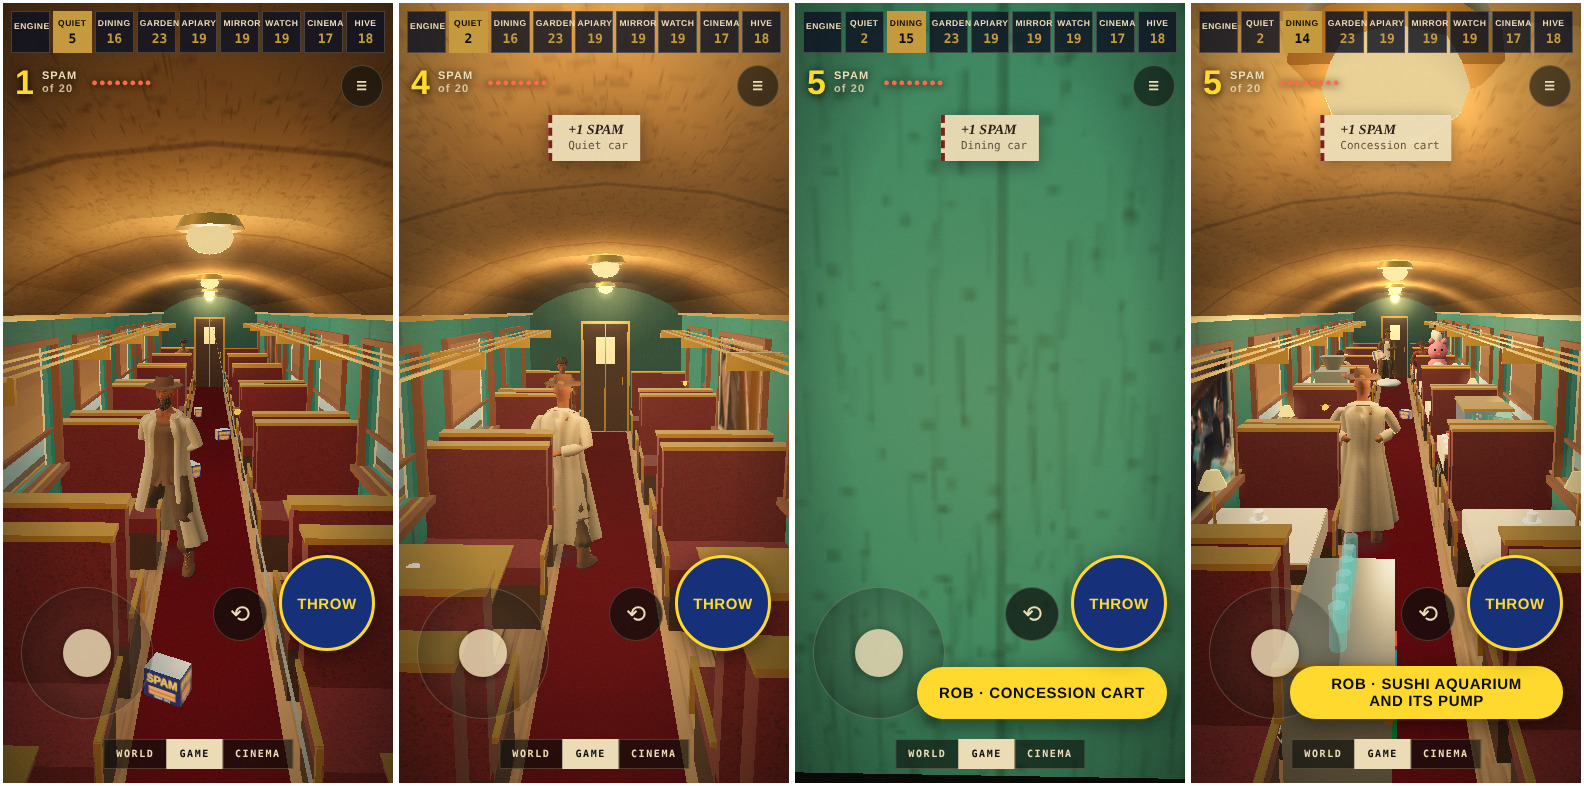
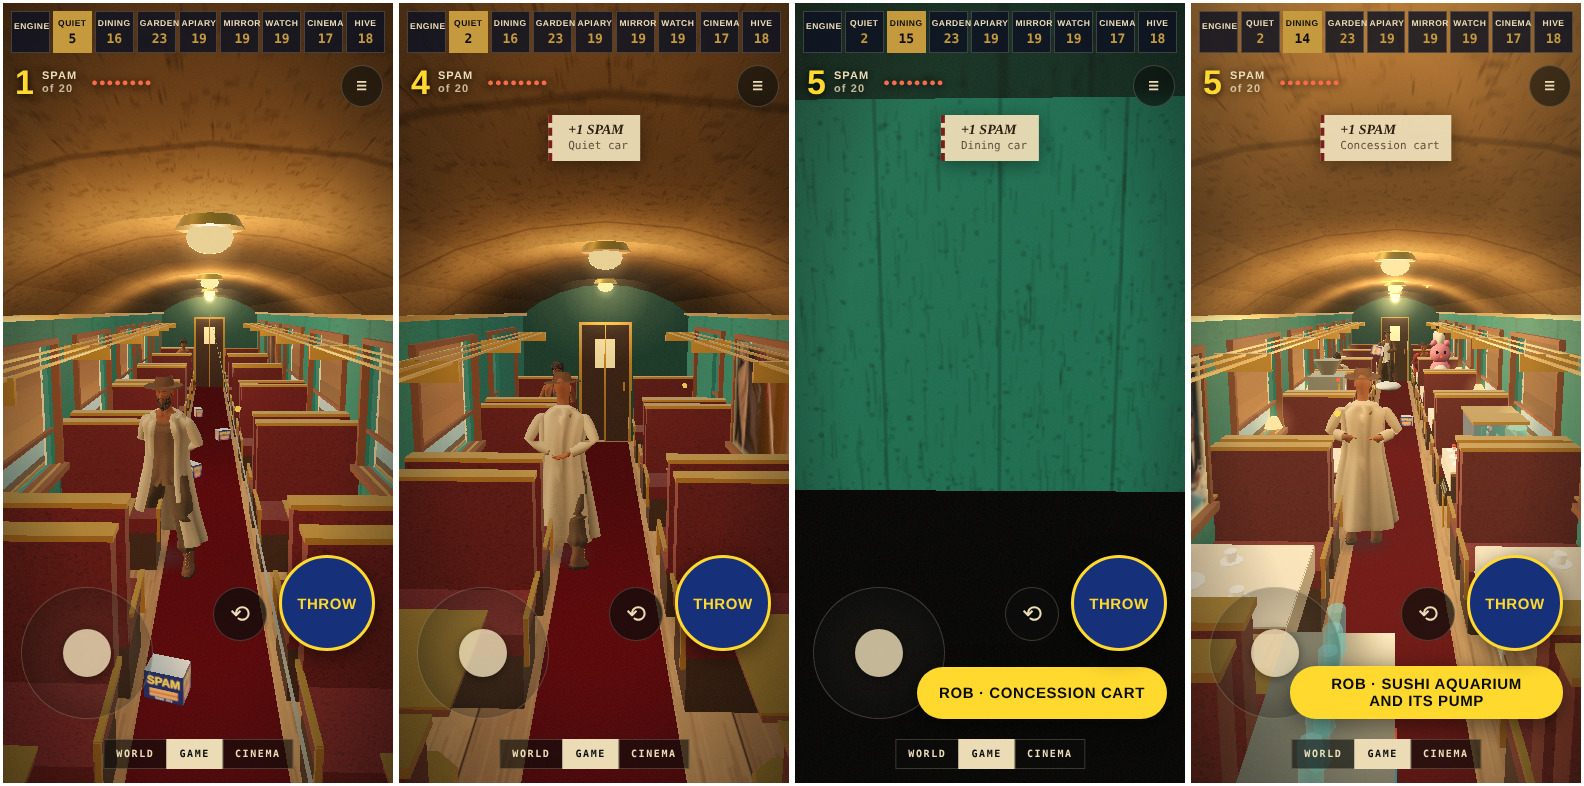
Keep a door open while it stands between him and the camera
Claude-Session: https://claude.ai/code/session_012XUjiQunF2Sqay1mq7DX2m

diff --git a/train/js/main.js b/train/js/main.js
@@ -223,7 +223,7 @@ function frame() {
   if (own) goal.copy(own.pos);
   bees.update(dt, state.t, { cars, camCar: Math.max(1, state.camCar), actor, cup, goal: own ? goal : null, density: state.empty && state.camCar <= 1 ? -1 : (DENSITY[Math.max(1, state.camCar)] ?? 1) * (state.calm ? .25 : 1) });
   for (const c of cans) c.visible = !(state.empty && c.userData.car === 1);
-  for (const d of train.doors) { const near = Math.abs(actor.x - d.x) < 1.9 || people.some(p => p.walk && Math.abs(p.walk.x - d.x) < 1.6); d.open = damp(d.open, near ? 1 : 0, near ? 7 : 3, dt); d.g.position.z = d.open * .88; }
+  for (const d of train.doors) { const near = Math.abs(actor.x - d.x) < 1.9 || (rig.st.shot.inside && (d.x - actor.x) * (d.x - camera.position.x) < 0) || Math.abs(camera.position.x - d.x) < .8 || people.some(p => p.walk && Math.abs(p.walk.x - d.x) < 1.6); d.open = damp(d.open, near ? 1 : 0, near ? 7 : 3, dt); d.g.position.z = d.open * .88; }
   for (const p of people) {
     let ci = p.car;
     if (p.walk) { const w = p.walk; w.x += w.dir * .8 * dt; if (w.x > w.b) w.dir = -1; if (w.x < w.a) w.dir = 1; const l = locate(cars, w.x); ci = l.i; p.root.position.set(w.x, DIM.FLOOR, l.aisleZ + .12); p.root.rotation.y = w.dir * Math.PI / 2; p.loco = { speedMps: .8 }; }
